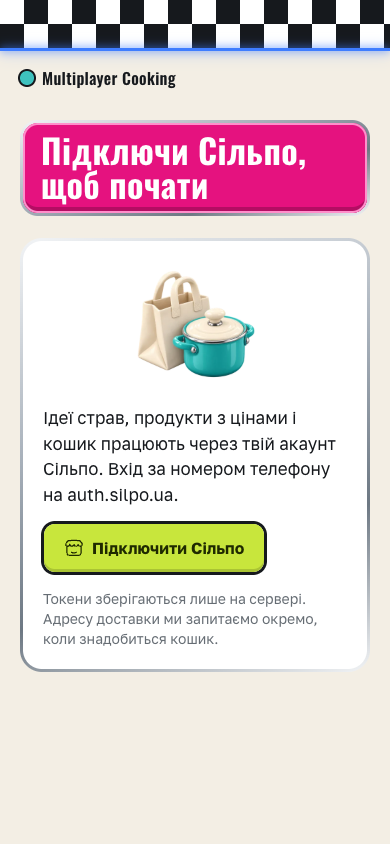
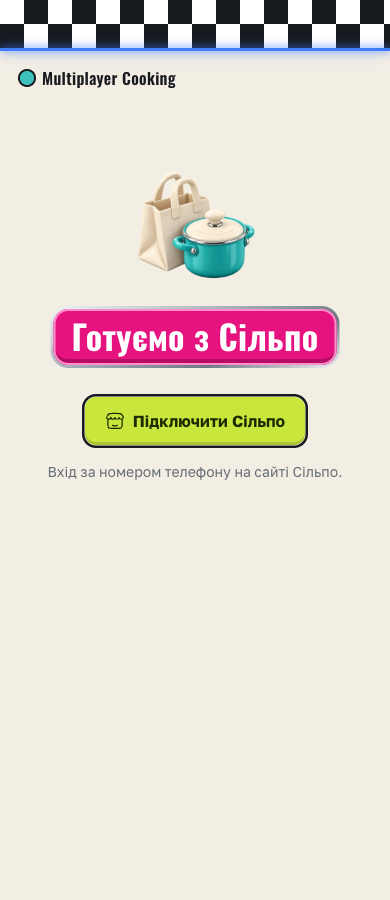
Center empty states and simplify Silpo connection

diff --git a/src/components/silpo-connect.tsx b/src/components/silpo-connect.tsx
@@ -23,12 +23,11 @@ export type SilpoConnection = NonNullable<FunctionReturnType<typeof api.silpo.co
 
 export function ConnectCard({ busy, onConnect }: { busy: boolean; onConnect: () => void }) {
   return (
-    <section className="connect-card chrome" aria-label="Підключення Сільпо">
+    <section className="connect-card" aria-label="Підключення Сільпо">
       <KitchenIllustration name="bag-pot" className="connect-illustration" />
-      <p>
-        Ідеї страв, продукти з цінами і кошик працюють через твій акаунт Сільпо. Вхід за номером
-        телефону на auth.silpo.ua.
-      </p>
+      <div className="sign">
+        <h1>Готуємо з Сільпо</h1>
+      </div>
       <Button
         type="button"
         size="xl"
@@ -40,10 +39,7 @@ export function ConnectCard({ busy, onConnect }: { busy: boolean; onConnect: () 
         <HugeiconsIcon icon={Store01Icon} className="size-5" strokeWidth={1.5} aria-hidden />
         {busy ? "Відкриваємо Сільпо…" : "Підключити Сільпо"}
       </Button>
-      <p className="connect-note">
-        Токени зберігаються лише на сервері. Адресу доставки ми запитаємо окремо, коли знадобиться
-        кошик.
-      </p>
+      <p className="connect-note">Вхід за номером телефону на сайті Сільпо.</p>
     </section>
   );
 }

diff --git a/src/index.css b/src/index.css
@@ -429,17 +429,18 @@
 
 .illustrated-empty {
   display: grid;
+  align-content: center;
   justify-items: center;
   gap: 12px;
   text-align: center;
 }
 
 .illustrated-empty p {
+  max-width: 32ch;
   margin: 0;
 }
 
 .connect-illustration {
-  justify-self: center;
   width: 128px;
   height: 128px;
 }
@@ -472,25 +473,20 @@
 .connect-card {
   display: grid;
   gap: 16px;
-  margin-top: 22px;
-  padding: 20px;
-  border-radius: 22px;
+  justify-items: center;
+  margin-top: clamp(32px, 8vh, 72px);
+  text-align: center;
 }
 
-.connect-card p {
-  margin: 0;
-  font-size: 1.0625rem;
-  line-height: 1.5;
+.connect-card .sign {
+  margin: 0 0 12px;
 }
 
 .connect-card .connect-note {
+  margin: 0;
   color: var(--muted-foreground);
   font-size: 0.875rem;
   line-height: 1.25rem;
-}
-
-.connect-card .generate-button {
-  justify-self: start;
 }
 
 .profile-trigger {
@@ -1087,6 +1083,8 @@
 }
 
 .history-empty {
+  flex: 1;
+  min-height: min(280px, 40dvh);
   margin: 0;
   padding: 8px;
   color: var(--muted-foreground);

diff --git a/src/routes/index.tsx b/src/routes/index.tsx
@@ -369,10 +369,6 @@ function ConnectScreen({
         </header>
       </div>
       <div className="home-layout">
-        <div className="sign">
-          <h1>Підключи Сільпо, щоб почати</h1>
-        </div>
-
         <ConnectCard busy={busy} onConnect={onConnect} />
 
         {error && <SendError message={error} />}

diff --git a/design/mocks/illustration-family.jsx b/design/mocks/illustration-family.jsx
@@ -91,7 +91,6 @@ export function MemoriesFixture() {
 export function ConnectFixture() {
   return (
     <FixtureShell>
-      <div className="sign"><h1>Підключи Сільпо, щоб почати</h1></div>
       <ConnectCard busy={false} onConnect={() => {}} />
     </FixtureShell>
   );

diff --git a/src/components/personal-settings.css b/src/components/personal-settings.css
@@ -56,6 +56,10 @@
   display: grid;
   gap: 10px;
 }
+.personal-settings__memories:has(> .personal-settings__empty) {
+  min-height: 100%;
+  align-content: center;
+}
 .personal-settings__memory {
   display: flex;
   justify-content: space-between;

diff --git a/DESIGN.md b/DESIGN.md
@@ -103,7 +103,7 @@ Each component below has one job. Reuse them before drawing anything new.
 
 **Dish photo.** One landscape photo above the idea plate, radius 14px, 2px `--border`, `object-fit: cover`. The full pane uses a 16:10 frame, the compact card 16:9. Older sourced photos show a credit line in Golos 12px `--muted-foreground` with a link to the source page. Generated photos have no source credit. No photo means no frame: the plate moves to the top. A failed generation or image load shows a compact inline error while the recipe remains readable.
 
-**Connect card.** The gate before the first idea. A chrome frame, radius 22px, padding 20px, with one paragraph, the lime CTA "Підключити Сільпо" with the store icon, and a Golos 14px `--muted-foreground` note on what is stored where. The sign plate above it reads "Підключи Сільпо, щоб почати".
+**Connection screen.** A compact centred column without a card frame. The bag and pot illustration sits above the magenta sign "Готуємо з Сільпо", followed by the lime "Підключити Сільпо" button and one muted 14px phone-login note. Keep busy feedback on the button and persistent connection errors below the group.
 
 **Profile menu.** An ink tag in the top right with the user icon and the person's name, with "Профіль" as the fallback, opening a shadcn dropdown: 2px ink border, radius 14px, items in Golos 600 15px with teal icons. Under the name, "Телефон:" and "Пошта:" rows in Golos 13px show the value blurred as scrambled characters of the same length, so the row does not change width when a tap reveals it. "Вийти на цьому пристрої" is the destructive item and sits last after a separator.
 
@@ -151,9 +151,9 @@ The six companion assets live in `public/images/`. Each is a 384px square WebP w
 
 | Placement             | Asset                | Display size and rule                                                                                                                                                                                                                                                           |
 | --------------------- | -------------------- | ------------------------------------------------------------------------------------------------------------------------------------------------------------------------------------------------------------------------------------------------------------------------------- |
-| Empty history         | `recipe-box.webp`    | 112px, centred above the existing message. Teal recipe box with cream index cards. Hide it while loading and when history has entries.                                                                                                                                          |
-| Empty memories        | `memory-fridge.webp` | 112px, centred above the existing message. Tiny teal fridge door with a blank cream note and magnet. Hide it while loading and when memories exist.                                                                                                                             |
-| Сільпо connection     | `bag-pot.webp`       | 128px, centred inside the connect card before the paragraph. Grocery bag beside an enamel pot. Keep the connection button and privacy note visible.                                                                                                                             |
+| Empty history         | `recipe-box.webp`    | 112px above the existing message. Centre the illustration and message together horizontally and vertically in the available panel space. Teal recipe box with cream index cards. Hide it while loading and when history has entries.                                            |
+| Empty memories        | `memory-fridge.webp` | 112px above the existing message. Centre the illustration and message together horizontally and vertically in the available panel space. Tiny teal fridge door with a blank cream note and magnet. Hide it while loading and when memories exist.                               |
+| Сільпо connection     | `bag-pot.webp`       | 128px, centred above the short sign heading. Grocery bag beside an enamel pot. Keep the connection button and phone-login note visible. Do not add a card frame or technical storage copy.                                                                                      |
 | Failed dish photo     | `serving-dome.webp`  | 64px beside the inline cherry error. Cream plate under a closed chrome serving dome. This is a generic photo-failure symbol, never a depiction of the recipe. Keep the error, recipe, ingredients, and actions usable. A recipe with no photo and no error has no illustration. |
 | Cart ready for review | `basket-filled.webp` | 64px beside the cart heading, only when a cart exists and is not updating. Filled companion to the reference basket. Preserve "Готовий до перевірки", totals, warnings, and checkout controls. No order-confirmation symbols or copy.                                           |
 | Cook-count dialog     | `oven-mitts.webp`    | 104px, centred above the stepper. Teal and cream oven mitts lean together. Preserve the count, save action, and saved-count note. This dialog only stores the number of cooks.                                                                                                  |
@@ -184,12 +184,12 @@ Hugeicons Stroke Rounded at `strokeWidth={1.5}`. 20px inside buttons and tags, 1
 
 Ukrainian, addressed as "ти". Buttons name the action: "Згенерувати", "Готово, далі", "Помінятися". Labels stay short enough to sit in a sign plate on one or two lines. Empty states show the next action instead of a placeholder line. The composer placeholder is "Опиши страву або напиши, що є вдома". Errors say what happened and what to do: "Відповідь не прийшла вчасно. Спробуй ще раз."
 
-Empty states and errors may use one sentence to explain the next action, as specified above. Other titles, totals, and buttons have no explanatory line beneath them. A number gets one label ("Разом, без доставки"), a list gets one heading ("Немає в Сільпо, купи окремо"), and the button text says what happens. If a screen needs a paragraph to explain a control, the control is wrong. Copy that could sit under any product's title ("Переглянь і повернися до розмови") says nothing about this one and is cut.
+Empty states and errors may use one sentence to explain the next action, as specified above. The connection screen may include one phone-login note. Other titles, totals, and buttons have no explanatory line beneath them. A number gets one label ("Разом, без доставки"), a list gets one heading ("Немає в Сільпо, купи окремо"), and the button text says what happens. If a screen needs a paragraph to explain a control, the control is wrong. Copy that could sit under any product's title ("Переглянь і повернися до розмови") says nothing about this one and is cut.
 
 ## Adding a screen
 
 1. Start with the checker band, the brand row, and a sign plate that names the screen.
-2. Put the main content in a chrome frame or in cards. Pick the frame when the content has state.
+2. Use a chrome frame or cards to group bounded content. The connection screen uses an unframed column for its single action.
 3. Place one lime CTA. Everything else is an ink tag or a ghost button.
 4. Check the colour budget: magenta once, lime once, teal for identity, blue for neon lines only.
 5. Build in `design/mocks/` first when the screen adds a new component. Use `c-checker-signage.html` for static layouts or render the actual React components as in `service-fallback.html`. Screenshot at 390px wide and keep the PNG next to the mock.
